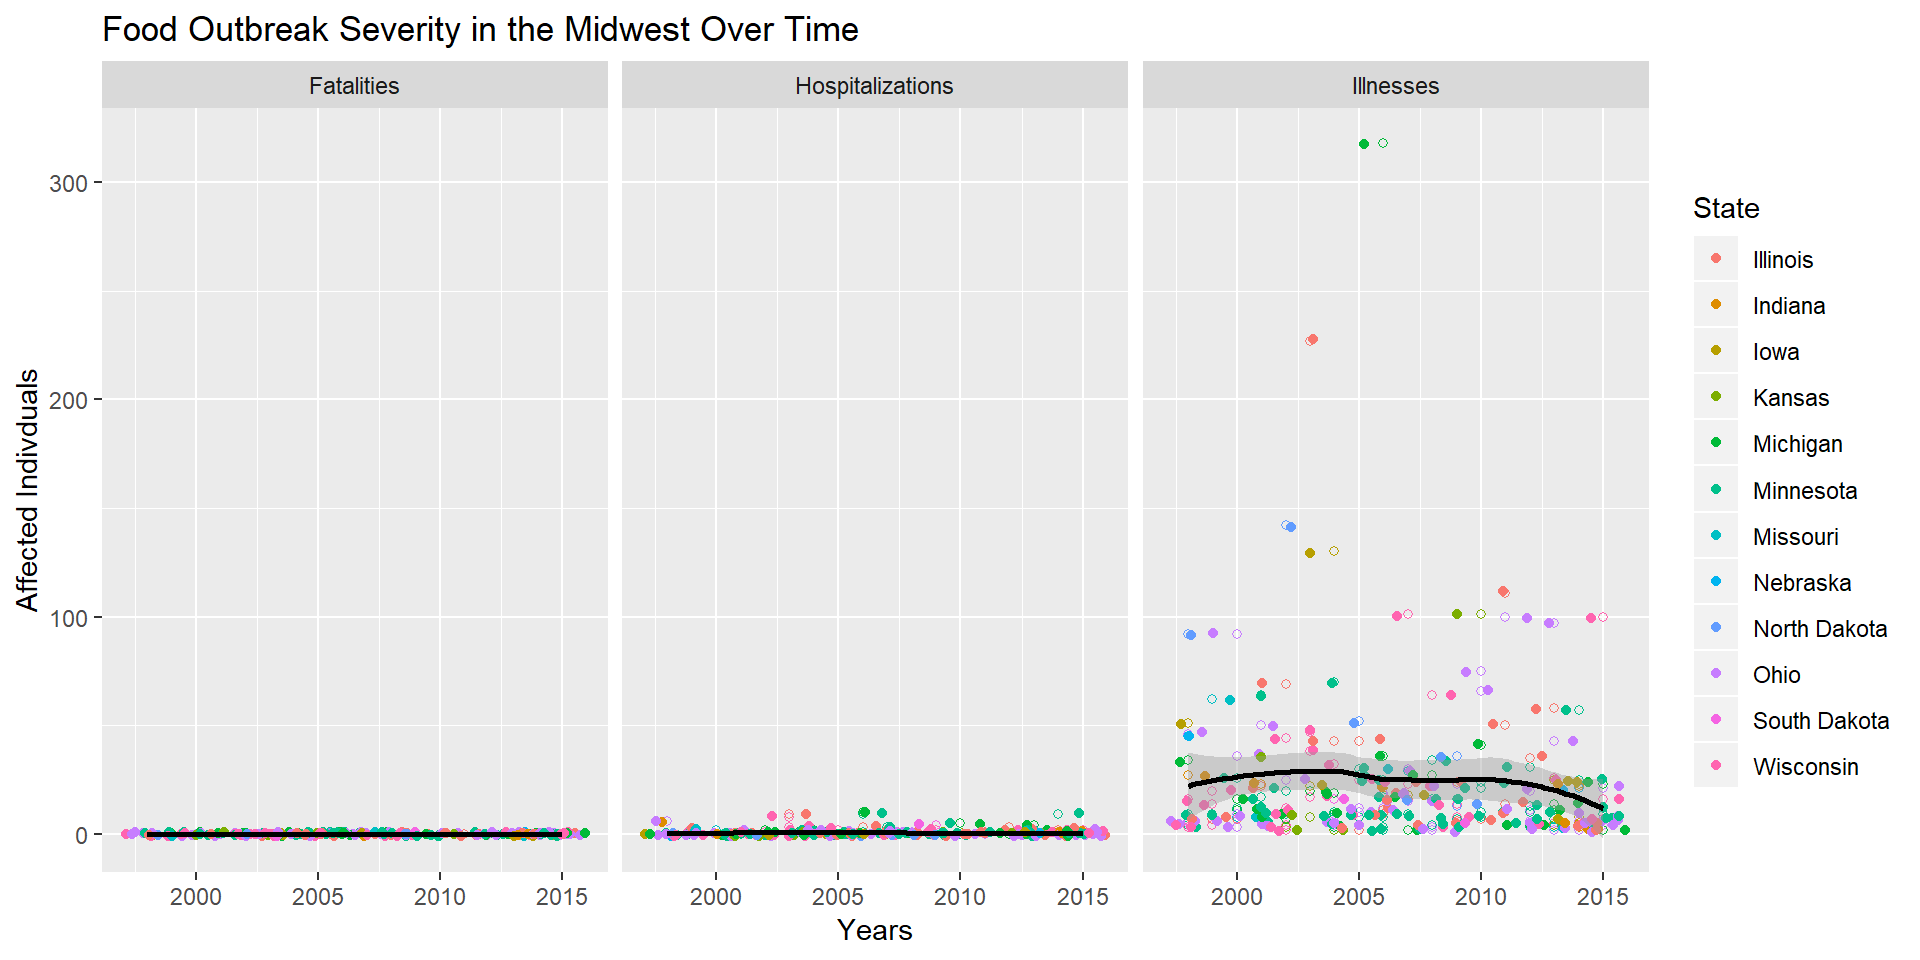
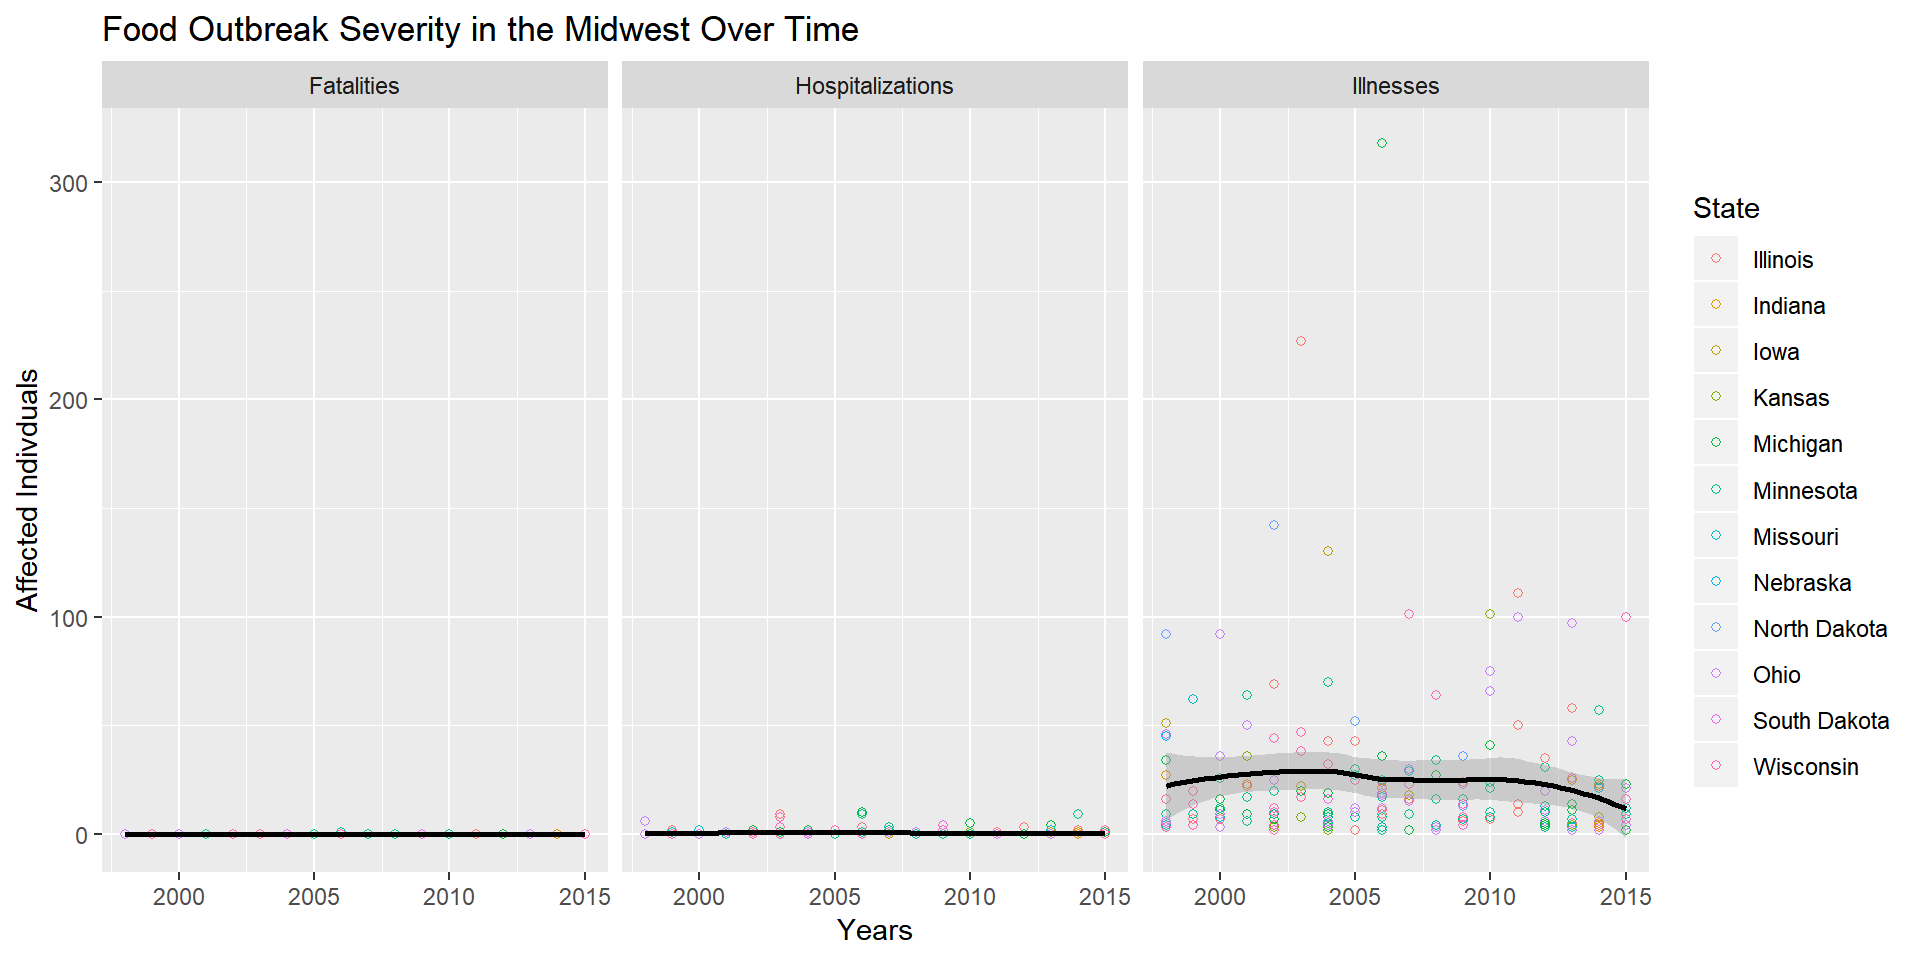
Add files via upload
Switched graph order

diff --git a/docs/more_info.html b/docs/more_info.html
@@ -380,17 +380,26 @@ food_outbreaks_tidy &lt;-<span class="st"> </span>food_outbreaks <span class="op
 <span class="st">  </span><span class="kw">gather</span>(Effect, Cases, <span class="kw">c</span>(<span class="st">&quot;Illnesses&quot;</span>, <span class="st">&quot;Hospitalizations&quot;</span>, <span class="st">&quot;Fatalities&quot;</span>)) <span class="op">%&gt;%</span><span class="st"> </span>
 <span class="st">  </span><span class="kw">select</span>(State, Year, Species, Effect, Cases, Total)
 
-<span class="co">#histogram by Species </span>
-<span class="kw">ggplot</span>(<span class="dt">data =</span> food_outbreaks_tidy, <span class="dt">mapping =</span> <span class="kw">aes</span>(<span class="dt">x =</span> Year)) <span class="op">+</span>
-<span class="st">  </span><span class="kw">geom_histogram</span>(<span class="dt">binwidth =</span> <span class="fl">1.5</span>, <span class="dt">fill =</span> <span class="st">&quot;cadetblue3&quot;</span>, <span class="dt">color =</span> <span class="st">&quot;black&quot;</span>) <span class="op">+</span>
-<span class="st">  </span><span class="kw">facet_wrap</span>(<span class="op">~</span><span class="st"> </span>Species, <span class="dt">nrow =</span> <span class="dv">7</span>) <span class="op">+</span><span class="st"> </span><span class="kw">labs</span>(<span class="dt">x =</span> <span class="st">&quot;Year&quot;</span>, <span class="dt">y=</span><span class="st">&quot;Number of Individuals Affected&quot;</span>, <span class="dt">title =</span> <span class="st">&quot;Outbreaks by Species/Agent&quot;</span>)</code></pre></div>
-<p><img src="more_info_files/figure-html/unnamed-chunk-1-1.png" width="768" /></p>
-<div class="sourceCode"><pre class="sourceCode r"><code class="sourceCode r"><span class="co">#to-do: 3rd visualization</span>
-<span class="co">#to-do: use group_by </span></code></pre></div>
-<div class="sourceCode"><pre class="sourceCode r"><code class="sourceCode r"><span class="co">#line graph of outbreaks over time by State </span>
+<span class="co">#line graph of outbreaks over time by State </span>
 <span class="kw">ggplot</span>(<span class="dt">data =</span> food_outbreaks_tidy, <span class="dt">mapping =</span> <span class="kw">aes</span>(<span class="dt">x =</span> Year, <span class="dt">y =</span> Total)) <span class="op">+</span>
 <span class="st">  </span><span class="kw">geom_line</span>() <span class="op">+</span><span class="st"> </span><span class="kw">facet_wrap</span>(<span class="op">~</span>State, <span class="dt">nrow =</span> <span class="dv">3</span>) <span class="op">+</span><span class="st"> </span><span class="kw">labs</span>(<span class="dt">x =</span> <span class="st">&quot;Year&quot;</span>, <span class="dt">y=</span><span class="st">&quot;Number of Individuals Affected&quot;</span>, <span class="dt">title =</span> <span class="st">&quot;Outbreak Trends in Midwest Over Time&quot;</span>, <span class="dt">subtitle =</span> <span class="st">&quot;State by State from 1998-2015&quot;</span>)</code></pre></div>
-<p><img src="more_info_files/figure-html/unnamed-chunk-2-1.png" width="960" /> ``` More explanation (no more than 800 words)</p>
+<p><img src="more_info_files/figure-html/unnamed-chunk-1-1.png" width="960" /></p>
+<div class="sourceCode"><pre class="sourceCode r"><code class="sourceCode r"><span class="co">#Seperate by Species info</span>
+by_species &lt;-<span class="st"> </span>food_outbreaks_tidy <span class="op">%&gt;%</span>
+<span class="st">  </span><span class="kw">group_by</span>(Year, Species, Effect) <span class="op">%&gt;%</span><span class="st"> </span><span class="kw">summarise</span>(<span class="dt">Total=</span> <span class="kw">sum</span>(Cases))</code></pre></div>
+<div class="sourceCode"><pre class="sourceCode r"><code class="sourceCode r"><span class="co">#line graph of outbreaks over time by State </span>
+
+<span class="co">#Seperate by Species info</span>
+by_species &lt;-<span class="st"> </span>food_outbreaks_tidy <span class="op">%&gt;%</span>
+<span class="st">  </span><span class="kw">group_by</span>(Year, Species, Effect) <span class="op">%&gt;%</span><span class="st"> </span><span class="kw">summarise</span>(<span class="dt">Total=</span> <span class="kw">sum</span>(Cases))
+
+
+<span class="co">#Plot by species and effect</span>
+<span class="kw">ggplot</span>(<span class="dt">data =</span> by_species, <span class="dt">mapping =</span> <span class="kw">aes</span>(<span class="dt">x =</span> Year, <span class="dt">y=</span> Total, <span class="dt">fill =</span> Effect)) <span class="op">+</span>
+<span class="st">  </span><span class="kw">geom_col</span>() <span class="op">+</span>
+<span class="kw">facet_wrap</span>(<span class="op">~</span>Species, <span class="dt">nrow =</span> <span class="dv">7</span>) <span class="op">+</span><span class="st"> </span><span class="kw">labs</span>(<span class="dt">x =</span> <span class="st">&quot;Year&quot;</span>, <span class="dt">y=</span><span class="st">&quot;Number of Individuals Affected&quot;</span>, <span class="dt">title =</span> <span class="st">&quot;Outbreaks by Species/Toxin&quot;</span>)</code></pre></div>
+<p><img src="more_info_files/figure-html/unnamed-chunk-2-1.png" width="768" /></p>
+<p>``` More explanation (no more than 800 words)</p>
 </div>
 
 

diff --git a/docs/index.html b/docs/index.html
@@ -389,7 +389,6 @@ food_outbreaks_tidy &lt;-<span class="st"> </span>food_outbreaks <span class="op
       <span class="dt">mapping =</span> <span class="kw">aes</span>(<span class="dt">x =</span> Year, <span class="dt">y =</span> Cases, <span class="dt">color =</span> State)) <span class="op">+</span>
 <span class="st">  </span><span class="kw">geom_point</span>(<span class="dt">shape =</span> <span class="dv">1</span>)  <span class="op">+</span><span class="st"> </span>
 <span class="st">  </span><span class="kw">facet_wrap</span>(<span class="op">~</span>Effect) <span class="op">+</span><span class="st"> </span>
-<span class="st">  </span><span class="kw">geom_jitter</span>(<span class="dt">width =</span> <span class="dv">1</span>, <span class="dt">height =</span> <span class="dv">1</span>) <span class="op">+</span>
 <span class="st">  </span><span class="kw">geom_smooth</span>(<span class="dt">color =</span> <span class="st">&quot;black&quot;</span>) <span class="op">+</span>
 <span class="st">  </span><span class="kw">labs</span>(<span class="dt">title =</span> <span class="st">&quot;Food Outbreak Severity in the Midwest Over Time&quot;</span>, <span class="dt">x =</span><span class="st">&quot;Years&quot;</span>, <span class="dt">y=</span> <span class="st">&quot;Affected Indivduals&quot;</span>)</code></pre></div>
 <p><img src="index_files/figure-html/unnamed-chunk-1-1.png" width="960" /> Write your blog post here (intro, no more than 300 words) (to-do)</p>
